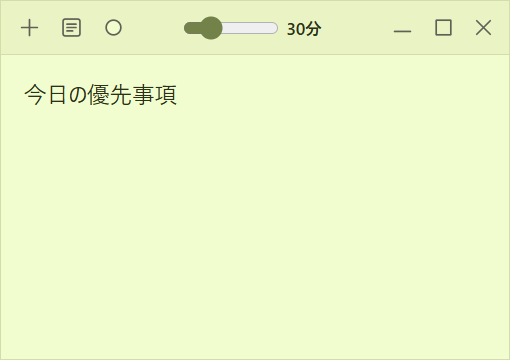
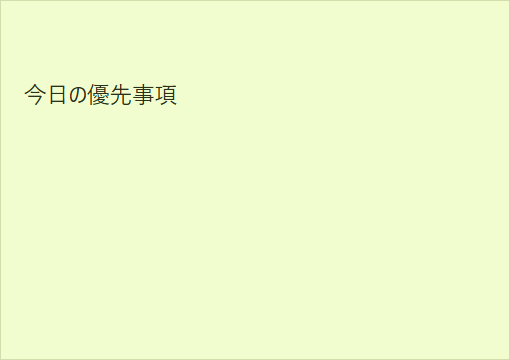
chore: publish verified desktop builds with installation guidance

diff --git a/docs/verification-v3.md b/docs/verification-v3.md
@@ -1,0 +1,43 @@
+# Floatnote 実装照合・検証 v3
+
+検証日: 2026-11-02。前版: [v2](verification-v2.md)。対象は [設計 v7](spec-v7.md) と [v6](spec-v6.md)。アプリの検証済みコミットは `5064b4e013d64cb9498a22abd3d430e768a114f3`。
+
+## 結果
+
+[Desktop checks](https://github.com/menma22/floatnote/actions/runs/41363466315) の Windows x64・Apple Silicon Mac・Intel Mac の3ジョブが成功した。
+
+- 単体35件: Windows と macOS で成功。
+- Windows: ヘッダー、編集・保存・再起動、別アプリの入力保持、閉じた付箋の復元の4ケースと、配布実行ファイルの起動・編集・最大化・復元が成功。
+- Apple Silicon Mac: 上記4ケースに加え、Command編集・新規作成・一覧・ネイティブClose・Dock activationイベント経由の再表示が成功。生成した Universal アプリの起動・編集・最大化・復元も成功。
+- Intel Mac: Apple Silicon 上で作った同じ Universal ZIP を取得・展開し、全バイナリの構造・署名と、アプリの起動・編集・最大化・復元を確認した。
+
+## 追加条件の照合
+
+| 条件 | 実装・証拠 | 結果 |
+| --- | --- | --- |
+| H1 カーソル内外でヘッダー表示を切り替える | [style.css](../src/style.css)、[app.spec.js](../tests/e2e/app.spec.js) | 両OSで成功。非表示時は背景・区切り線・操作をまとめて隠す |
+| H2 本文・キャレット・スクロール位置を動かさない | ヘッダーのレイアウトを維持して opacity を切り替え、本文領域の座標・内容・scrollTopを照合 | 両OSで成功。本文の領域を拡大したという意味ではない |
+| H3 編集フォーカスだけでは表示せず、キーボード操作を見せる | ヘッダー内の `:focus-visible`、Shift+Tab/Tabでの実操作 | 両OSで成功 |
+| H4 パレットの閉鎖と一覧ヘッダーの維持 | [main.js](../src/main.js) の pointerleave、一覧を別クラスで描画 | 両OSで成功 |
+| H5 AIに渡せる導入案内 | [インストール v3](install-v3.md) | OS別のファイル選択・SHA256照合・本人操作が必要な場面を記載 |
+| M1 Macで既存機能が動く | macOS runnerで5ケースを実行 | 成功 |
+| M2 Command操作と標準メニュー | [platform-menu.cjs](../electron/platform-menu.cjs)、Mac専用ケース | コピー・切り取り・貼り付け・Undo/Redo・新規・一覧と、CocoaのClose処理を確認 |
+| M3 Universalに両CPUの実行コードを含む | [inspect-mac-package.mjs](../scripts/inspect-mac-package.mjs) | 全物理Mach-Oファイルに arm64 と x86_64 があることを両runnerで確認 |
+| M4 Mac配布アプリ自体を使える | [packaged.spec.js](../tests/e2e/packaged.spec.js) | Apple SiliconとIntelの両方で成功 |
+| M5 公開ファイルとチェックサムが揃う | [手動公開workflow](../.github/workflows/publish.yml) | 成功済みCIのartifactと両Macの検査結果を照合し、同一ファイルを再ビルドせず公開する構成 |
+
+この記録はアプリの検証完了時点の照合。外部公開工程の結果の正本は [v0.1.1 Release](https://github.com/menma22/floatnote/releases/tag/v0.1.1)、添付の `SHA256SUMS.txt`、および [公開workflowのログ](https://github.com/menma22/floatnote/actions/workflows/publish.yml) とする。
+
+## 実測で修正したMac固有の条件
+
+当初は Windows と同じ `showInactive()` の呼出しで、最小化から戻す Mac の付箋へ入力フォーカスが移った。修正後は native な最小化解除の間だけ `setFocusable(false)` を使い、`restore` 後に一時的な最前面レベルを再適用する。表示後に元の focusable を復元する。反復通知・終了・例外時の後始末も同じ状態を回収する。
+
+検証では別プロセスの入力用アプリを前面に置き、本番スケジューラの期限だけを短縮した。付箋のfocusイベントが0回、入力用アプリのblurイベントが0回で、文字入力が継続することと最前面固定の解除を確認した。Windowsも同じ別プロセスのケースで成功した。
+
+Macの `Meta+W` をCDPから送ることはCocoaメニューの配送と同じではないため、ネイティブCloseは対象ウィンドウのフォーカスを確認して `Menu.sendActionToFirstResponder('performClose:')` から実行した。物理キーボードによるOSのCmd+W配送を試したという意味ではない。
+
+## 配布上の制約
+
+Windows 10/11 x64 と macOS 13 Ventura 以降が対象。Mac は Universal 版で、アドホック署名を検査済みだが、Developer ID署名・Appleの公証は付けていない。Windows版は未署名。インストールや初回起動で本人の確認が必要な場合があり、すべてのPCで無警告に導入できるとは保証しない。
+
+インストーラーの本人PCへの実インストール、インターネット経由で取得したMacアプリへのGatekeeper操作、実際のOSスリープ・ロック・排他フルスクリーンは未実測。これらと、検証済みのアプリ起動・保存・再表示は区別する。起動中の旧版は、データを保存して終了してから更新する。
